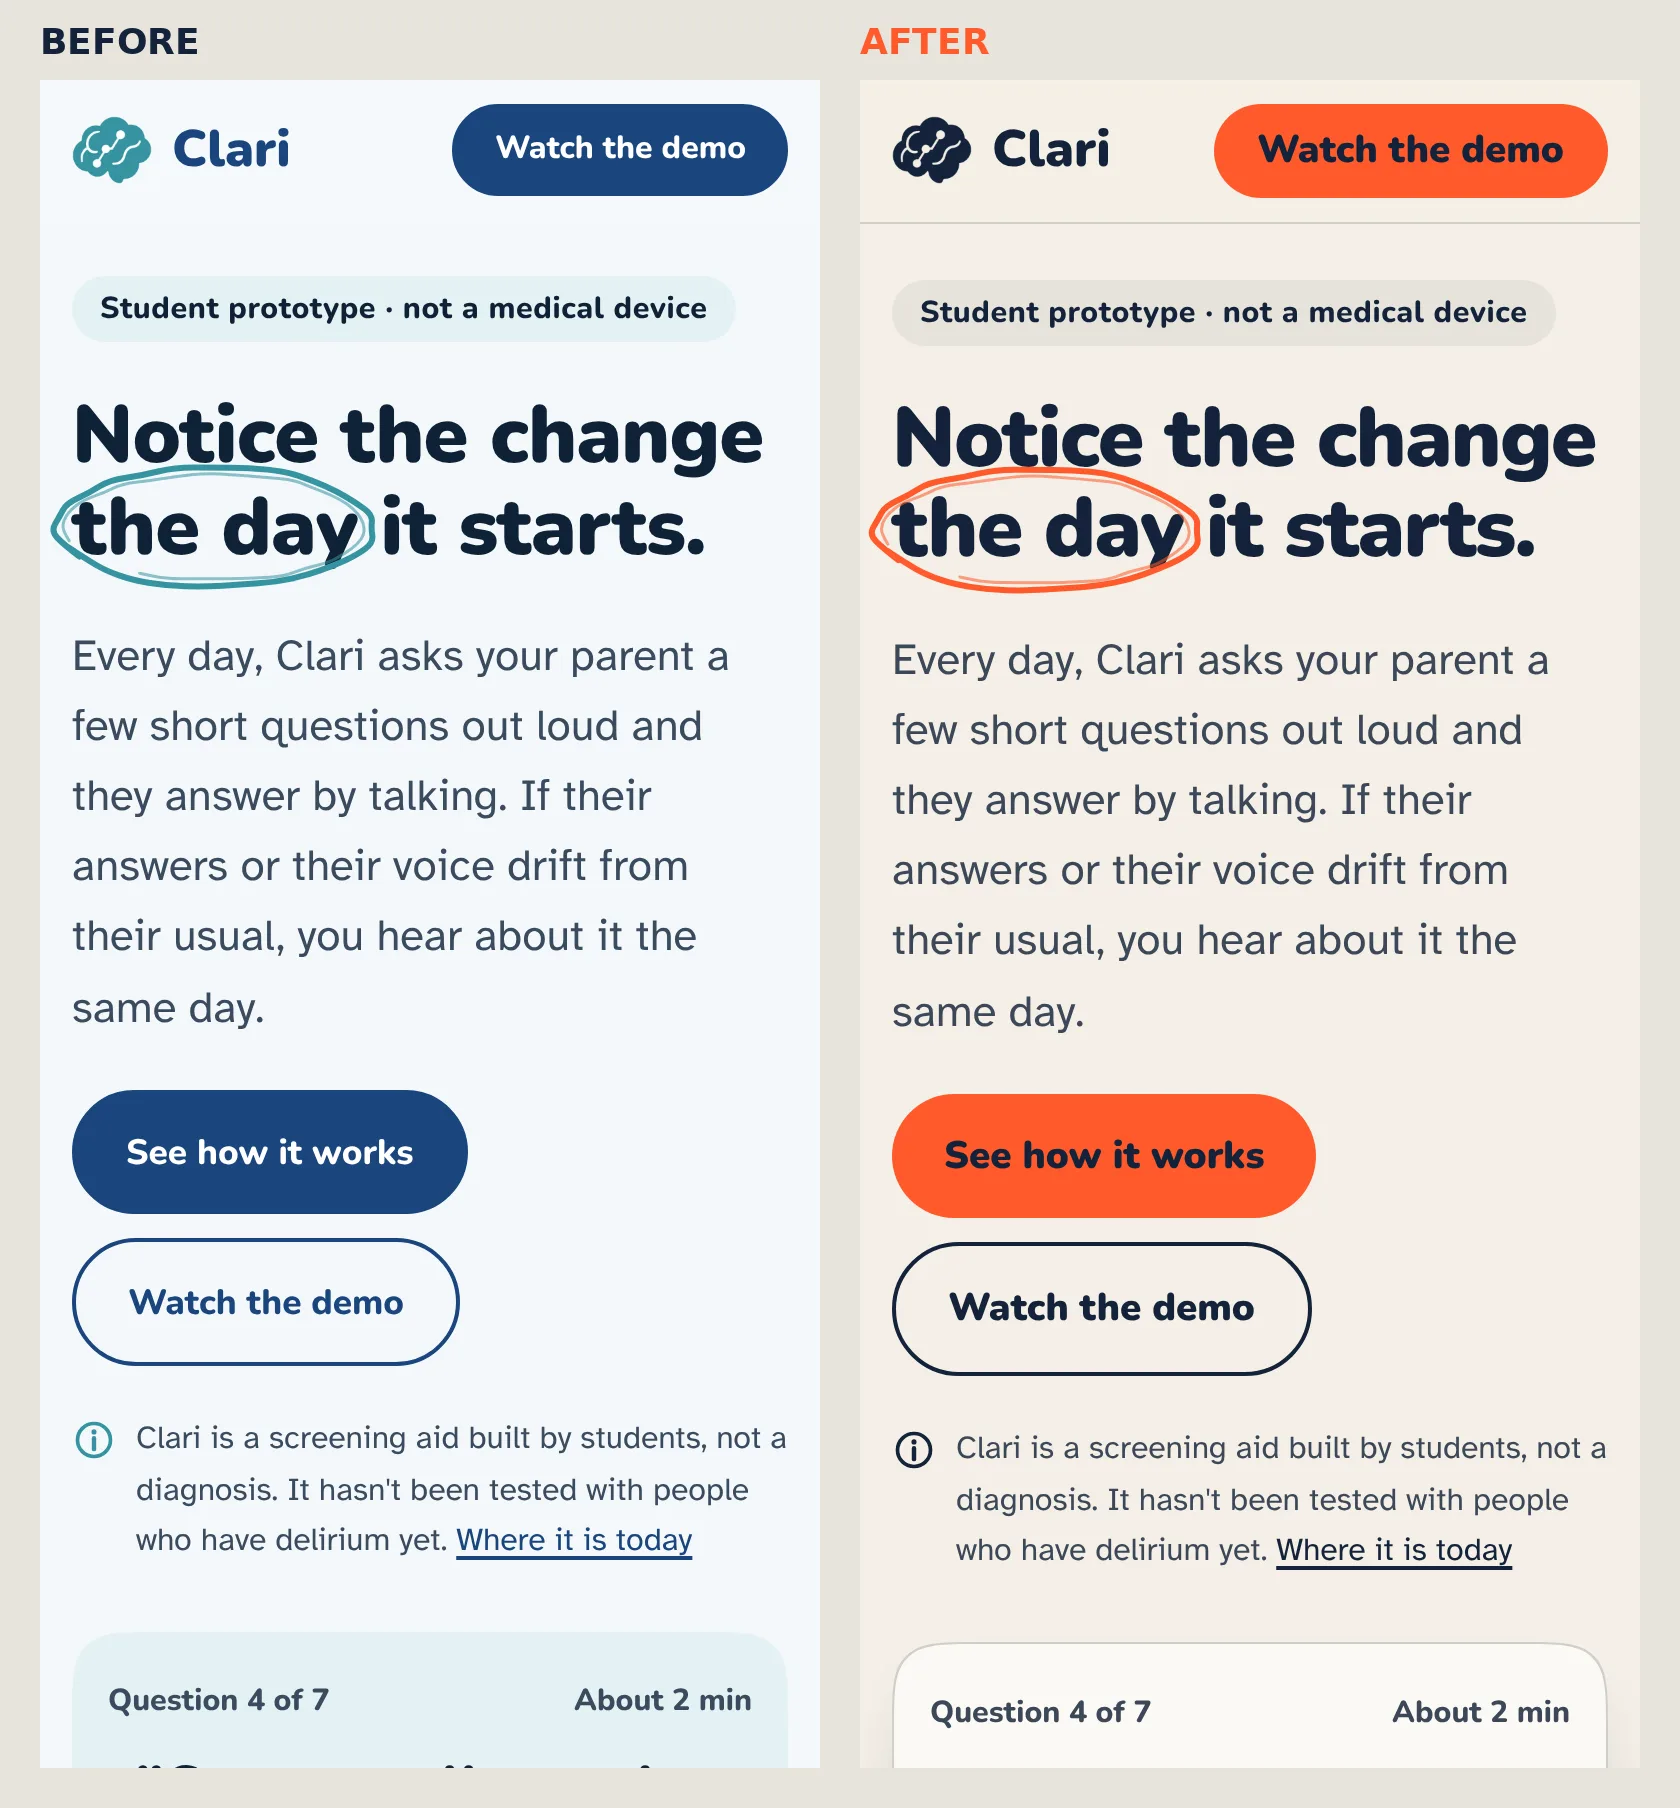
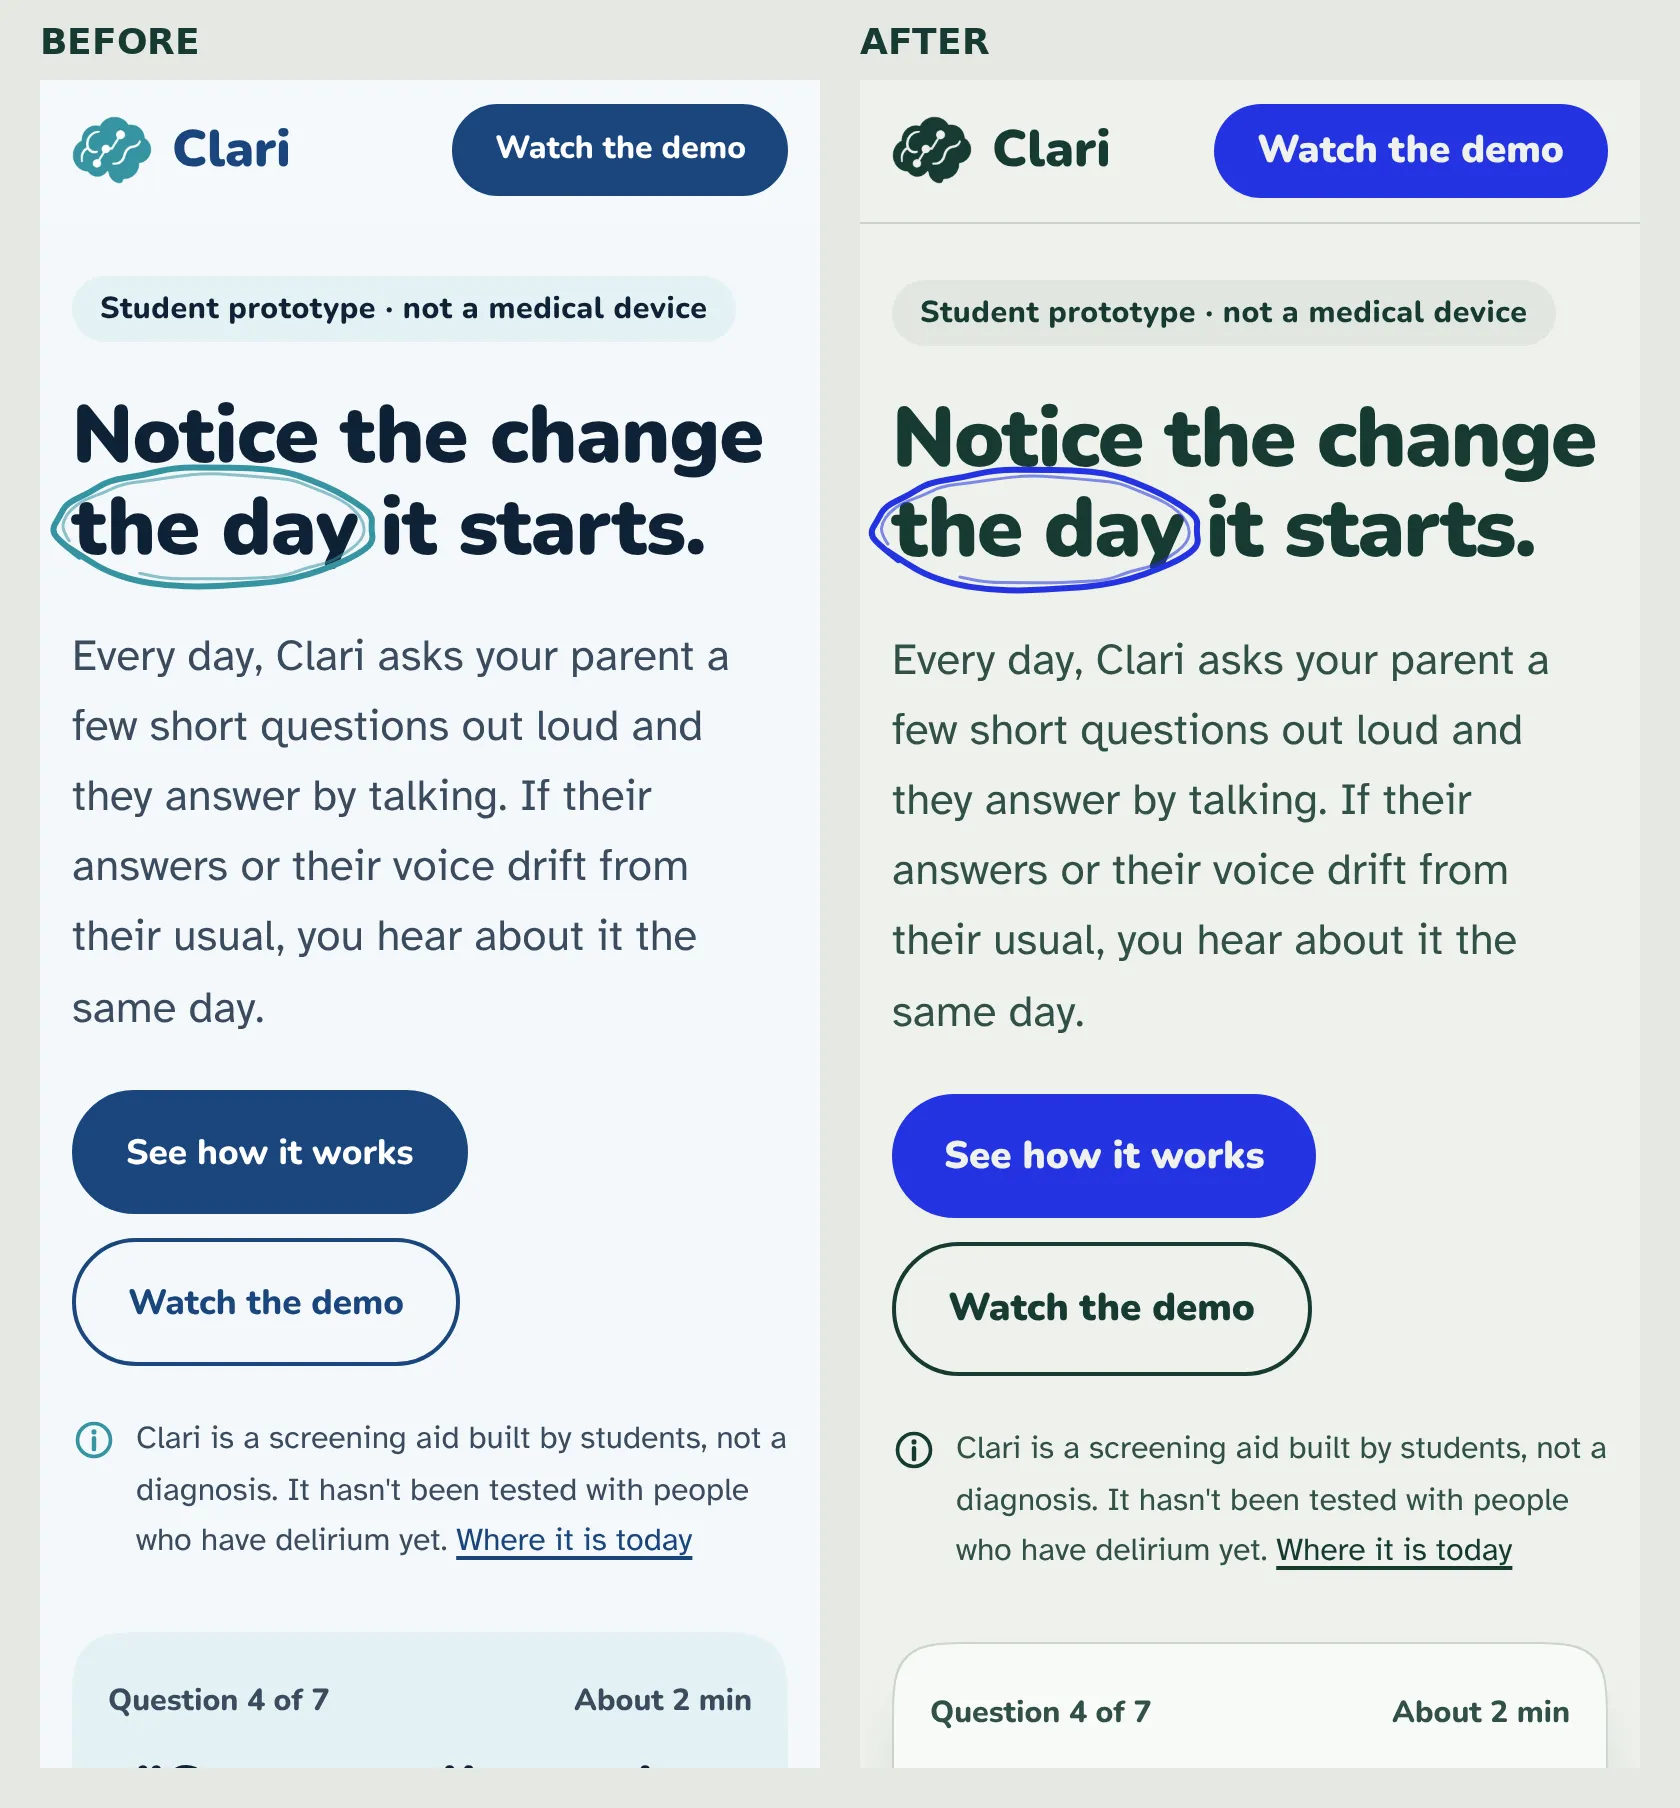
Switch the landing page palette to pine, mist and cobalt
The user asked for a different set of colours. Same two-quiet-one-loud
rule: pine and mist are quiet, cobalt is loud. Screenshots refreshed.

Claude-Session: https://claude.ai/code/session_01CuRDqN1RwTVorPN8khPe3V

diff --git a/landing/index.html b/landing/index.html
@@ -14,24 +14,25 @@
 <style>
 /* Palette: two quiet colours and one loud one. Everything else on the page
    is a tint of these three, mixed with color-mix().
-     Ink    #14233A  quiet. Text, the dark band, "usual self".
-     Paper  #F4EFE6  quiet. The page itself.
-     Signal #FF5A2C  loud.  Only for what should pull the eye: the main
+     Pine   #173A33  quiet. Text, the dark band, "usual self".
+     Mist   #EEF2EC  quiet. The page itself.
+     Cobalt #2433E0  loud.  Only for what should pull the eye: the main
                      buttons, the hand-drawn marks and anything that says
                      "pay attention" (Keep an eye on it, Call their doctor).
-   In dark mode ink and paper swap places; the signal stays the same.
+   In dark mode pine and mist swap places and the cobalt is lifted with
+   mist so it still stands out on the dark page.
    Statuses never rely on colour alone: each has a symbol and a word. */
 html:root {
-  --ink: #14233A;
-  --paper: #F4EFE6;
-  --signal: #FF5A2C;
-  --on-signal: #14233A;   /* 5:1 on signal; used for large bold text only */
-  --text-rgb: 20, 35, 58;
+  --ink: #173A33;
+  --paper: #EEF2EC;
+  --signal: #2433E0;
+  --on-signal: var(--paper);   /* 7:1 on cobalt */
+  --text-rgb: 23, 58, 51;
 
   --bg: var(--paper);
   --surface: color-mix(in srgb, var(--paper) 40%, #fff);
   --text: var(--ink);
-  --muted: color-mix(in srgb, var(--ink) 82%, var(--paper));
+  --muted: color-mix(in srgb, var(--ink) 88%, var(--paper));
   --line: color-mix(in srgb, var(--ink) 16%, var(--paper));
   --wash: color-mix(in srgb, var(--ink) 6%, var(--paper));
   --usual: color-mix(in srgb, var(--ink) 20%, var(--paper));
@@ -53,9 +54,9 @@ html:root {
   --bg-hover: var(--wash);
   --text-primary: var(--text); --text-secondary: var(--muted); --text-muted: var(--muted); --text-ghost: var(--muted);
   --border-subtle: var(--line); --border-default: var(--line); --border-bright: var(--muted);
-  --accent-primary: var(--signal); --accent-primary-rgb: 255, 90, 44;
-  --accent-secondary: var(--ink); --accent-secondary-rgb: 20, 35, 58;
-  --interactive: var(--signal); --interactive-rgb: 255, 90, 44;
+  --accent-primary: var(--signal); --accent-primary-rgb: 36, 51, 224;
+  --accent-secondary: var(--ink); --accent-secondary-rgb: 23, 58, 51;
+  --interactive: var(--signal); --interactive-rgb: 36, 51, 224;
   --on-accent: var(--on-signal);
   --color-success: var(--ink); --color-warning: var(--signal); --color-error: var(--signal); --color-info: var(--ink);
   --glow-xs: none; --glow-sm: none; --glow-md: none; --glow-hover: none; --glow-primary: none; --glow-secondary: none; --glow-card-hover: none;
@@ -63,7 +64,7 @@ html:root {
   --focus-ring: 0 0 0 3px var(--signal); --focus-glow: 0 0 0 3px var(--signal);
   --interactive-focus: 0 0 0 3px var(--signal); --interactive-focus-ring: 0 0 0 3px var(--signal);
   --gradient-display-text: none; --gradient-divider: none; --gradient-divider-glow: none; --divider-glow: none;
-  --shadow-sm: 0 2px 6px rgba(20, 35, 58, .08); --shadow-md: 0 18px 40px -22px rgba(20, 35, 58, .45);
+  --shadow-sm: 0 2px 6px rgba(23, 58, 51, .08); --shadow-md: 0 18px 40px -22px rgba(23, 58, 51, .45);
   --font-body: var(--body); --font-label: var(--display); --font-label-weight: 800; --font-display: var(--display);
   --body-size: 1.1875rem; --body-lh: 1.6; --label-spacing: .02em;
   --radius-sm: 10px; --radius-md: 16px; --radius-lg: 24px;
@@ -72,26 +73,28 @@ html:root {
 }
 @media (prefers-color-scheme: dark) {
   html:root:not([data-theme="light"]) {
-    --bg: #0F1B2D; --surface: var(--ink); --text: var(--paper); --text-rgb: 244, 239, 230;
+    --bg: #0E2420; --surface: var(--ink); --text: var(--paper); --text-rgb: 238, 242, 236;
+    --signal: #7F89E5; --on-signal: #0E2420; --accent-primary-rgb: 127, 137, 229; --interactive-rgb: 127, 137, 229;
     --muted: color-mix(in srgb, var(--paper) 80%, var(--ink));
     --line: color-mix(in srgb, var(--paper) 16%, var(--ink));
     --wash: color-mix(in srgb, var(--paper) 7%, var(--ink));
     --usual: color-mix(in srgb, var(--paper) 22%, var(--ink));
     --signal-soft: color-mix(in srgb, var(--signal) 16%, var(--ink));
     --signal-mid: color-mix(in srgb, var(--signal) 30%, var(--ink));
-    --deep: color-mix(in srgb, var(--paper) 8%, var(--ink)); --bezel: #0A1320;
+    --deep: color-mix(in srgb, var(--paper) 8%, var(--ink)); --bezel: #091915;
     color-scheme: dark;
   }
 }
 html:root[data-theme="dark"] {
-  --bg: #0F1B2D; --surface: var(--ink); --text: var(--paper); --text-rgb: 244, 239, 230;
+  --bg: #0E2420; --surface: var(--ink); --text: var(--paper); --text-rgb: 238, 242, 236;
+    --signal: #7F89E5; --on-signal: #0E2420; --accent-primary-rgb: 127, 137, 229; --interactive-rgb: 127, 137, 229;
   --muted: color-mix(in srgb, var(--paper) 80%, var(--ink));
   --line: color-mix(in srgb, var(--paper) 16%, var(--ink));
   --wash: color-mix(in srgb, var(--paper) 7%, var(--ink));
   --usual: color-mix(in srgb, var(--paper) 22%, var(--ink));
   --signal-soft: color-mix(in srgb, var(--signal) 16%, var(--ink));
   --signal-mid: color-mix(in srgb, var(--signal) 30%, var(--ink));
-  --deep: color-mix(in srgb, var(--paper) 8%, var(--ink)); --bezel: #0A1320;
+  --deep: color-mix(in srgb, var(--paper) 8%, var(--ink)); --bezel: #091915;
   color-scheme: dark;
 }
 

diff --git a/landing/README.md b/landing/README.md
@@ -16,11 +16,11 @@ Serve the folder with any static server (for example `python3 -m http.server` in
 
 Two quiet colours and one loud one; everything else is a `color-mix()` tint of these:
 
-- **Ink** `#14233A` (quiet): text, the dark bands, "their usual self".
-- **Paper** `#F4EFE6` (quiet): the page.
-- **Signal** `#FF5A2C` (loud): only the main buttons, the hand-drawn marks and anything that means "pay attention" (a signal ring for "Keep an eye on it", solid signal for "Call their doctor").
+- **Pine** `#173A33` (quiet): text, the dark bands, "their usual self".
+- **Mist** `#EEF2EC` (quiet): the page.
+- **Cobalt** `#2433E0` (loud): only the main buttons, the hand-drawn marks and anything that means "pay attention" (a cobalt ring for "Keep an eye on it", solid cobalt for "Call their doctor").
 
-Dark mode swaps ink and paper; signal stays. The nav logo is `img/logo-mark-cutout.png` used as a CSS mask, so it takes the text colour. The app screenshots and demo video still show the app's own navy and teal. Before and after screenshots of the 2026-11 restyle are in `screenshots/`.
+In the CSS they're `--ink`, `--paper` and `--signal`, so a new palette only changes those three values (plus the matching `-rgb` values). Dark mode swaps pine and mist and lifts the cobalt with mist (`#7F89E5`) so it still stands out. The nav logo is `img/logo-mark-cutout.png` used as a CSS mask, so it takes the text colour. The app screenshots and demo video still show the app's own navy and teal. Before and after screenshots of the 2026-11 restyle are in `screenshots/`.
 
 ## Rebuilding the script
 
@@ -34,6 +34,6 @@ The built files are committed, so the page works without a build.
 
 ## Content rules
 
-Copy comes from the final pitch script and the app. It keeps the limits up front: screening aid, not a diagnosis, and not yet tested with people who have delirium. Statuses always show a symbol and a word as well as a colour, and body text keeps 7:1 contrast in light and dark themes (ink text on the signal colour is 5:1, so it's only used for large bold button text and icons). Stats are cited in the footer (Inouye 2014, Han 2009, Tieges 2021).
+Copy comes from the final pitch script and the app. It keeps the limits up front: screening aid, not a diagnosis, and not yet tested with people who have delirium. Statuses always show a symbol and a word as well as a colour, and body text keeps 7:1 contrast in light and dark themes (mist text on cobalt is 7:1). Stats are cited in the footer (Inouye 2014, Han 2009, Tieges 2021).
 
 To refresh a screenshot, resize the new PNG from `daily-checkin/screenshots/clari/` to 520 px wide and save it as WebP under `img/`.

diff --git a/HANDOFF.md b/HANDOFF.md
@@ -22,7 +22,7 @@ A voice check-in that helps families catch delirium in older relatives early. Th
 - **Gemini, off by default** (claude/gemini-integration): three flags, each with a fallback to today's behaviour. `GEMINI_TRANSCRIBE=1` takes the words from Gemini and keeps Whisper's word timings for the voice measures; `JUDGE_ENGINE=gemini` lets Gemini listen to answers the rules can't settle; `GEMINI_SPEECH_NOTE=1` adds a 0-3 "unusual speech" rating worth at most 1 point of the change score, never more than the other evidence, so it can't alarm alone. Vertex AI (production, zero data retention + BAA) or a Developer API key (synthetic audio only). Model pinned to `gemini-3.6-flash` (2.5-flash is closed to new keys). Whether Gemini's words become the default waits on the older-speaker benchmark. Env vars: `daily-checkin/README.md`; privacy: `daily-checkin/LAUNCH.md`.
 
 - **Landing page** (claude/project-thread-fcgkpv, 2026-11-02): a one-page Clari site in `landing/`, rebuilt with the user's chosen design tools (Arc UI, Wired Elements, thinking-orbs, Space UI squircle, Componentry's annotated text and calendar) bundled into `landing/vendor/clari-ui.js`. Uses the app's look, real screenshots, the demo video and cited stats, with the limits stated up front. Preview: https://claude.ai/artifact/VpezNthrvVcyugqNrbPJqw. Not deployed; hosting and a domain wait on the user.
-- **Landing page restyle** (claude/project-thread-f5klxw, 2026-11-10): the page now uses two quiet colours (ink `#14233A`, paper `#F4EFE6`) and one loud one (signal `#FF5A2C`) for buttons, hand-drawn marks and "pay attention" results. Same design tools, plus fixes to the hero (the result card no longer covers text). Before/after screenshots: `landing/screenshots/`.
+- **Landing page restyle** (claude/project-thread-f5klxw, 2026-11-10): the page now uses two quiet colours (pine `#173A33`, mist `#EEF2EC`) and one loud one (cobalt `#2433E0`; an orange version was tried first and replaced at the user's ask) for buttons, hand-drawn marks and "pay attention" results. Same design tools, plus fixes to the hero (the result card no longer covers text). Before/after screenshots: `landing/screenshots/`.
 
 ## In progress
 
